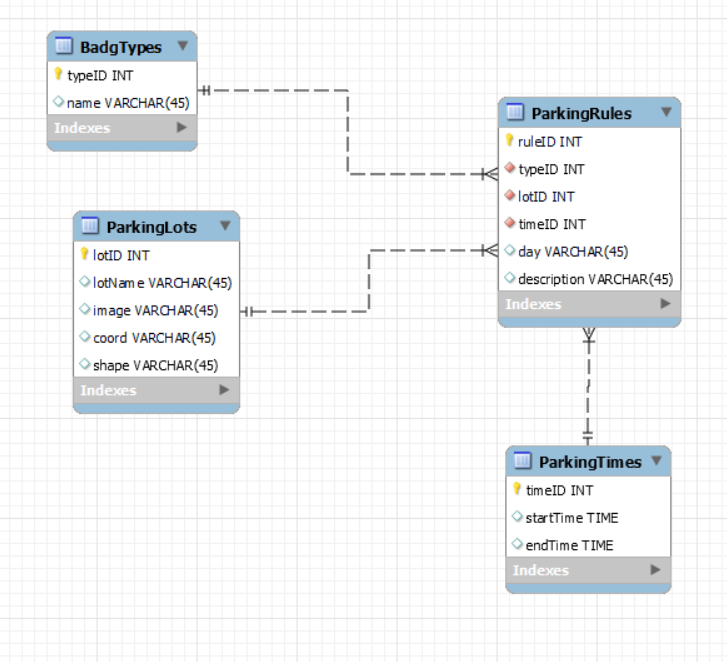
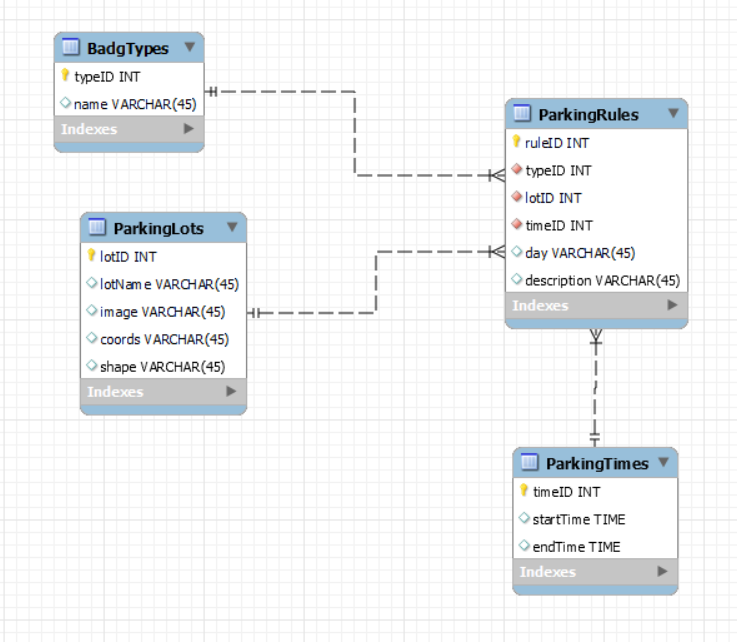
Add read.php for parkingLots table

Changed region(s): [[0.0605, 0.0312, 0.9381, 0.9346]]

diff --git a/data_src/api/badgeType/read.php b/data_src/api/badgeType/read.php
@@ -4,18 +4,22 @@ require_once "../../includes/database_config.php";
 require_once "../../classes/ParkingDatabase.php";
 
 $table = isset($_GET["table"])?$_GET["table"]:"";
-$id = isset($_GET["id"])?$_GET["id"]:"";
-$catID = isset($_GET["catID"])?$_GET["catID"]:"";
+//$id = isset($_GET["id"])?$_GET["id"]:"";
+
+$typeID = isset($_GET["typeID"])?$_GET["typeID"]:"";
+$name = isset($_GET["name"])?$_GET["name"]:"";
 $key = isset($_GET["APIKEY"])?$_GET["APIKEY"]:"";
+
 if($key!=$GLOBAL_API_KEY){
   echo json_encode(["message"=>"Invalid API KEY"]);
   exit;
 }
+
 $where = " ";
 $params = null;
 
-$sql = "select typeID, name from badgeType ".$where;
-$data = FoodDatabase::getDataFromSQL($sql, $params);
+$sql = "Select typeID, name from badgeTypes ".$where;
+$data = ParkingDatabase::getDataFromSQL($sql, $params);
 
 echo json_encode($data);
 

diff --git a/data_src/api/parkingLot/read.php b/data_src/api/parkingLot/read.php
@@ -3,4 +3,26 @@
 require_once "../../includes/database_config.php";
 require_once "../../classes/ParkingDatabase.php";
 
+
+$lotID = isset($_GET["lotID"])?$_GET["lotID"]:"";
+$lotName = isset($_GET["lotName"])?$_GET["lotName"]:"";
+$image = isset($_GET["image"])?$_GET["image"]:"";
+$coords = isset($_GET["coords"])?$_GET["coords"]:"";
+$shape = isset($_GET["shape"])?$_GET["shape"]:"";
+
+$key = isset($_GET["APIKEY"])?$_GET["APIKEY"]:"";
+
+if($key!=$GLOBAL_API_KEY){
+    echo json_encode(["message"=>"Invalid API KEY"]);
+    exit;
+}
+
+$where = " ";
+$params = null;
+
+$sql = "Select lotID, lotName, image, coords, shape from parkingLots ".$where;
+$data = ParkingDatabase::getDataFromSQL($sql, $params);
+
+echo json_encode($data);
+
 ?>

diff --git a/data_src/classes/ParkingDatabase.php b/data_src/classes/ParkingDatabase.php
@@ -1,6 +1,6 @@
 <?php
 
-class FoodDatabase{
+class ParkingDatabase{
     private static $conn = null;
 
     private static function connect() {
